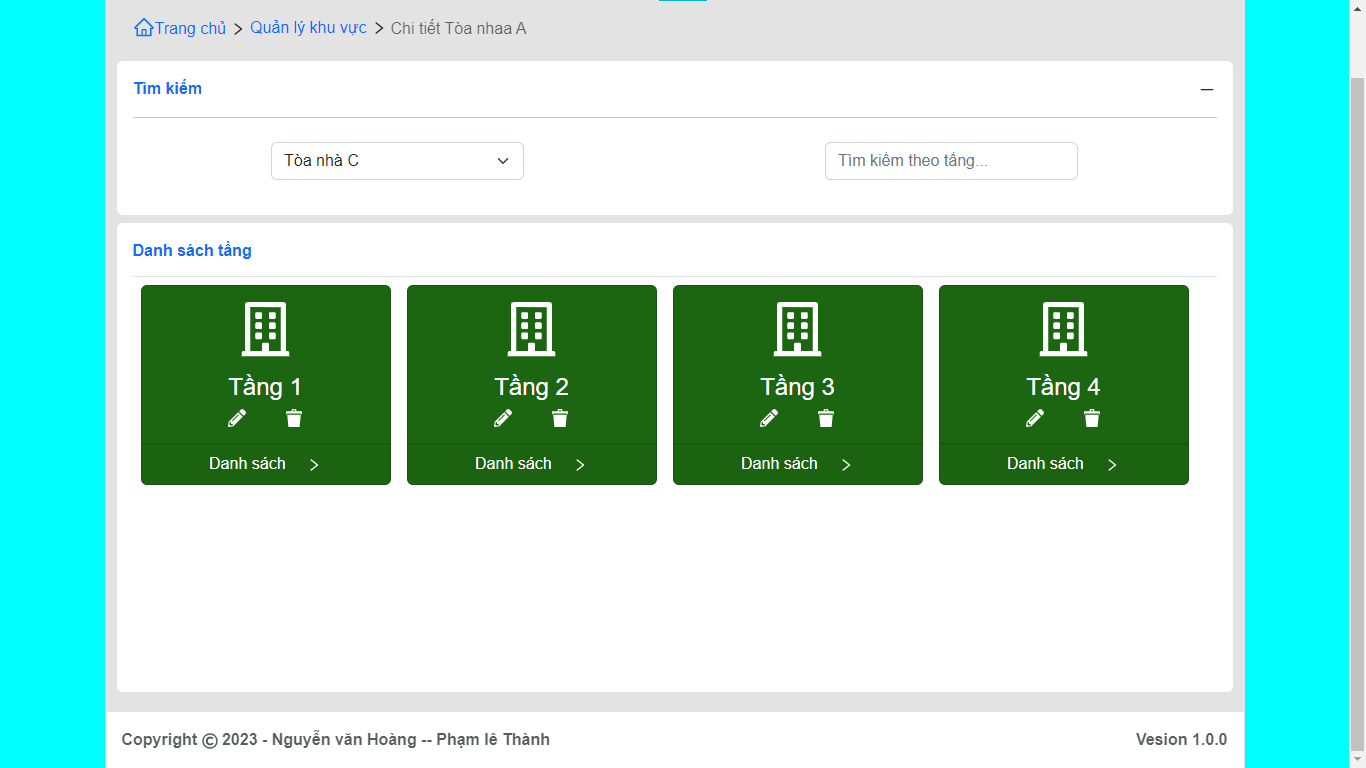
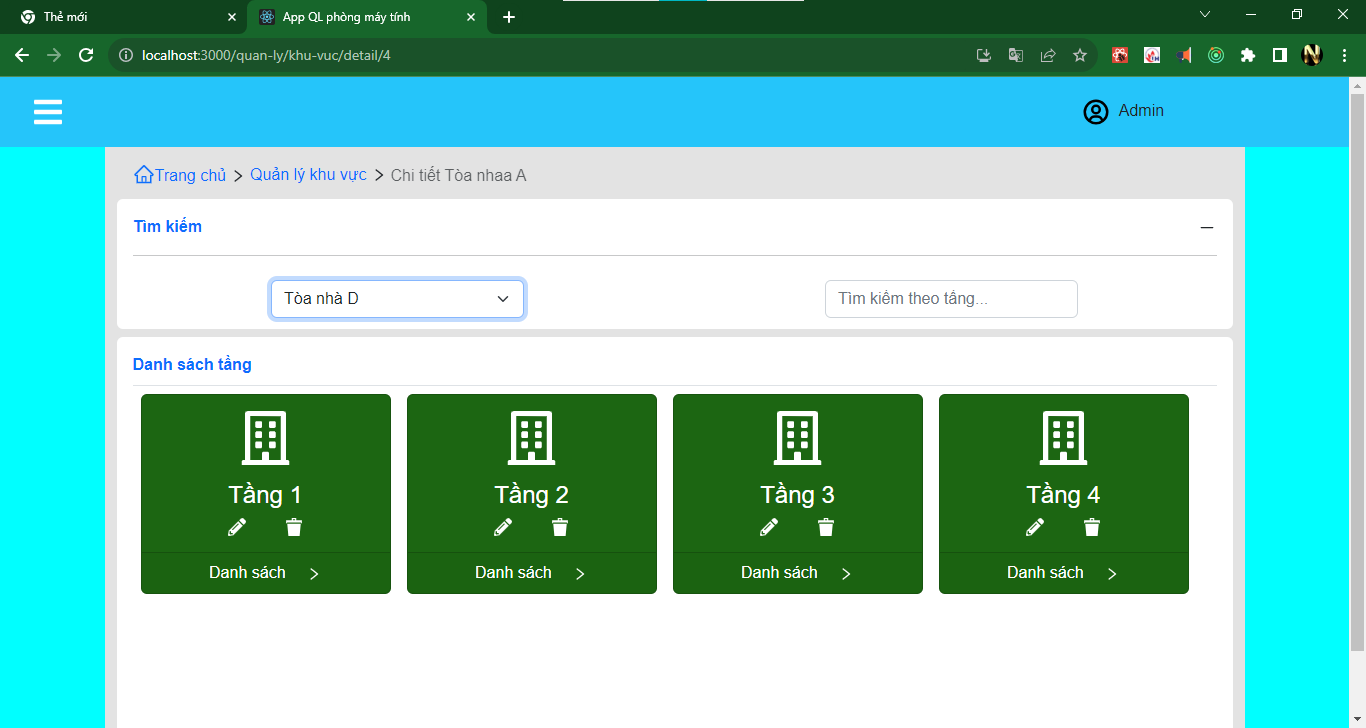
event change select khuvuc - DEtailKhuvuc

diff --git a/src/components/layout/Detail/DetailKhuVuc.jsx b/src/components/layout/Detail/DetailKhuVuc.jsx
@@ -1,5 +1,5 @@
 import React, { useEffect, useState } from "react";
-import { NavLink, useParams } from "react-router-dom";
+import { NavLink, useNavigate, useParams } from "react-router-dom";
 import Footer from "../../common/Footer/Footer";
 import NavTab from "../../common/NavTab/NavTab";
 import Database from "../../../util/database/Database";
@@ -24,7 +24,7 @@ const arrTang1 = [
   { id: 4, name: "Tầng 4", soPhong: 6 },
 ];
 
-//data khu vuc
+//data khu vuc - handleChangeSelect
 let arrKhuVuc1 = Database.dataKhuVuc;
 
 export default function DetailKhuVuc() {
@@ -34,12 +34,11 @@ export default function DetailKhuVuc() {
   const params = useParams();
   console.log("DetailKhuVuc - id : ", params.id);
 
+  // 2. navigate -- dung de chuyeenr trang(component)
+  const navigate = useNavigate();
+
   // lưu trữ khu vuc hien tai
   let [khuVuc, setKhuVuc] = useState({});
-  console.log(
-    "🚀 ~ file: DetailKhuVuc.jsx:29 ~ DetailKhuVuc ~ khuVuc:",
-    khuVuc
-  );
   let [arrtang, setArrTang] = useState([]);
 
   useEffect(() => {
@@ -69,12 +68,22 @@ export default function DetailKhuVuc() {
     setKhuVuc(item);
   };
 
+  //Handle
+  const handleChangeSelect = (e) => {
+    let { value } = e.target; // value == name cua obj khuvuc
+    let itemKhuVuc = arrKhuVuc1.find((item) => {
+      return item.name === value;
+    });
+    
+    navigate(`../${itemKhuVuc.id}`);
+  };
 
   //render
   const renderListTang = () => {
-    return arrTang1.map((item, index)=>{
+    return arrTang1.map((item, index) => {
       return (
-        <div key={index}
+        <div
+          key={index}
           className=" m-2 card text-white align-items-center color_green pt-3"
           style={{ width: "250px", height: "200px" }}
         >
@@ -93,8 +102,7 @@ export default function DetailKhuVuc() {
           </div>
         </div>
       );
-    })
-    
+    });
   };
 
   //render hidden
@@ -156,13 +164,17 @@ export default function DetailKhuVuc() {
                     <select
                       className="form-select"
                       aria-label="Default select example"
+                      onChange={handleChangeSelect}
+                      id="nameKV"
                     >
                       <option selected>{khuVuc.name}</option>
                       {arrKhuVuc1.map((item, index) => {
                         return item.name === khuVuc.name ? (
                           <></>
                         ) : (
-                          <option value={index}>{item.name}</option>
+                          <option key={index} value={item.name}>
+                            {item.name}
+                          </option>
                         );
                       })}
                     </select>

diff --git a/src/pages/PageQuanLy/PageQlKhuVuc.jsx b/src/pages/PageQuanLy/PageQlKhuVuc.jsx
@@ -81,7 +81,7 @@ const PageQlKhuVuc = (props) => {
               onClick={() => {
                 alert(`Chi tiet -- item`);
               }}
-              to={`../quan-ly/tang/detail/${item.id}`}
+              to={`../quan-ly/khu-vuc/detail/${item.id}`}
               className="btn bg-info mx-2 px-2"
               style={{ padding: "2px" }}
             >

diff --git a/README.md b/README.md
@@ -9,6 +9,7 @@
 
 ### ảnh quản khu vực
 ![QL Phòng](./AnhMinhHoa/img_QLKhuVuc.png)
+![QL Phòng](./AnhMinhHoa/img_Detail_KhuVuc.png)
 ![QL Phòng](./AnhMinhHoa/img_QLKhuVuc_Form.png)
 
 
